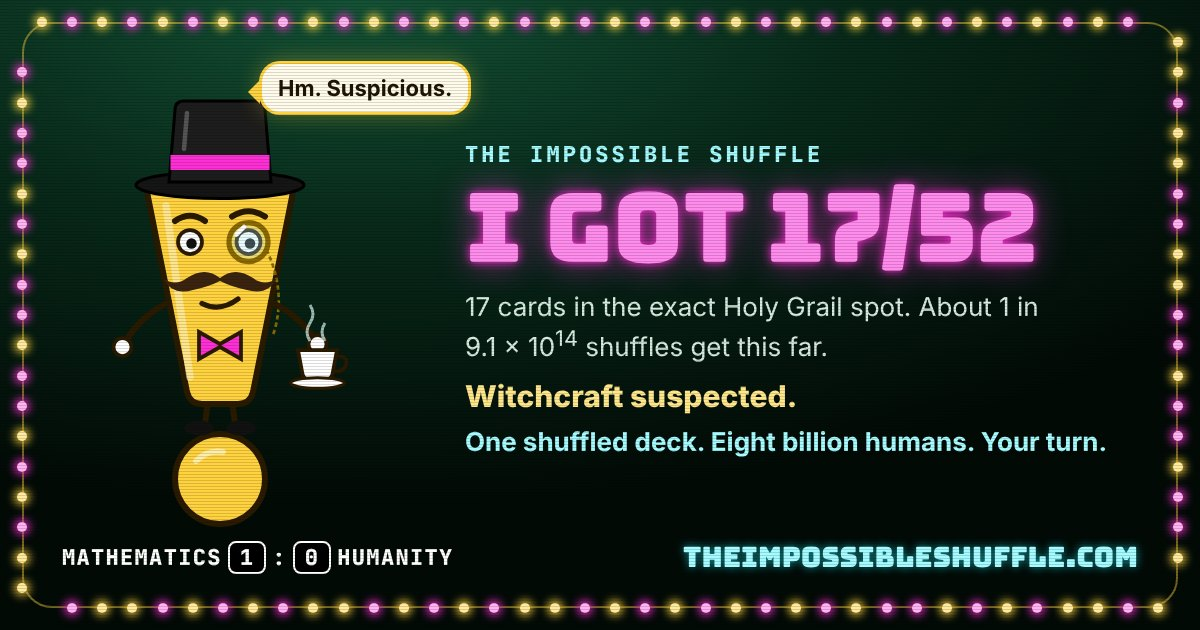
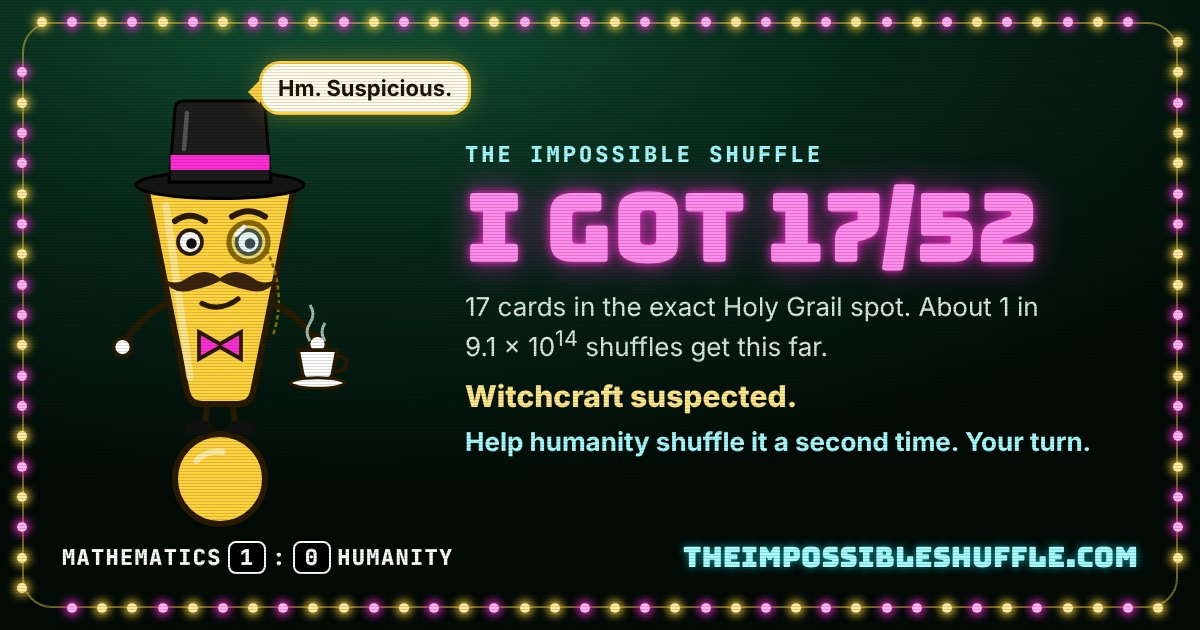
Hero line: 'A deck was shuffled once. Together, humanity is trying to shuffle that exact same order a second time. Your shuffle could be the one.' (also in meta, previews, manifest, share image and brag pages)
Claude-Session: https://claude.ai/code/session_01YJQDRu3Y672xQjHvmeDDE6

Changed region(s): [[0.37, 0.6635, 0.925, 0.7238]]

diff --git a/index.html b/index.html
@@ -4,13 +4,13 @@
 <meta charset="utf-8">
 <meta name="viewport" content="width=device-width, initial-scale=1, viewport-fit=cover">
 <title>The Impossible Shuffle</title>
-<meta name="description" content="The most impossible mission on the internet. One shuffled deck, eight billion humans, one goal: shuffle it again, card for card. Odds: 1 in 52!.">
+<meta name="description" content="The most impossible mission on the internet: a deck was shuffled once, and together humanity is trying to shuffle that exact same order a second time. Odds: 1 in 52!. Your shuffle could be the one.">
 <link rel="canonical" href="https://theimpossibleshuffle.com/">
 <meta name="theme-color" content="#03110a">
 <meta property="og:type" content="website">
 <meta property="og:url" content="https://theimpossibleshuffle.com/">
 <meta property="og:title" content="The Impossible Shuffle">
-<meta property="og:description" content="One shuffled deck. Eight billion humans. One goal: shuffle it again, card for card. The odds are 1 in 52!, about 8 × 10⁶⁷. Mathematics says no. We say: hold my cards.">
+<meta property="og:description" content="A deck was shuffled once. Together, humanity is trying to shuffle that exact same order a second time. The odds are 1 in 52!, about 8 × 10⁶⁷. Mathematics says no. We say: hold my cards.">
 <meta property="og:image" content="https://theimpossibleshuffle.com/og-image.png">
 <meta property="og:image:width" content="1200">
 <meta property="og:image:height" content="630">
@@ -18,7 +18,7 @@
 <meta name="twitter:card" content="summary_large_image">
 <meta name="twitter:image" content="https://theimpossibleshuffle.com/og-image.png">
 <meta name="twitter:title" content="The Impossible Shuffle">
-<meta name="twitter:description" content="One shuffled deck. Eight billion humans. One goal: shuffle it again, card for card. The odds are 1 in 52!. Mathematics says no. We say: hold my cards.">
+<meta name="twitter:description" content="A deck was shuffled once. Together, humanity is trying to shuffle that exact same order a second time. The odds are 1 in 52!. Mathematics says no. We say: hold my cards.">
 <link rel="icon" href="favicon.ico" sizes="16x16 32x32 48x48">
 <link rel="icon" type="image/png" sizes="32x32" href="favicon-32.png">
 <link rel="icon" type="image/png" sizes="16x16" href="favicon-16.png">
@@ -689,7 +689,7 @@
       <p id="phHello" class="ph-hello" hidden>👋 Welcome, Product Hunters. Your mission, should you choose to accept it: one shuffle. Mathematics expects nothing from you.</p>
       <p class="mono text-xs tracking-widest text-[#9fb5a8] mb-3">MISSION CONTROL · DEPARTMENT OF IMPOSSIBLE THINGS</p>
       <h1 class="font-display neon-pink text-[1.65rem] leading-tight sm:text-5xl lg:text-[3.4rem]">Welcome to Humankind's Most Impossible Mission</h1>
-      <p class="mt-5 max-w-4xl mx-auto text-base sm:text-lg text-[#cfe3d7]"><span class="block" style="text-wrap:balance">One shuffled deck. Eight billion humans. One goal: shuffle it again, card for card.</span> <span class="block mt-1" style="text-wrap:balance">Mathematics says no. We say: hold my cards.</span></p>
+      <p class="mt-5 max-w-4xl mx-auto text-base sm:text-lg text-[#cfe3d7]"><span class="block" style="text-wrap:balance">A deck was shuffled once. Together, humanity is trying to shuffle that exact same order a second time. Your shuffle could be the one.</span> <span class="block mt-1" style="text-wrap:balance">Mathematics says no. We say: hold my cards.</span></p>
       <button type="button" id="heroShuffle" class="shuffle-btn hero-cta mt-5"><span class="btn-main">Defy Mathematics</span><span class="btn-sub">Free · no sign-up</span></button>
       <p class="hero-trust">Odds: <b>1 in 8 × 10⁶⁷</b> per shuffle. Every shuffle is real and anyone can replay it, so even Mission Control can't fake a win.</p>
       <ol class="hero-steps" aria-label="The mission in three steps">

diff --git a/b/1/index.html b/b/1/index.html
@@ -2,20 +2,20 @@
 <html lang="en"><head><meta charset="utf-8">
 <meta name="viewport" content="width=device-width, initial-scale=1">
 <title>I got 1/52 on The Impossible Shuffle</title>
-<meta name="description" content="1 of 52 cards in their Holy Grail spot. Perfectly, aggressively average. One shuffled deck. Eight billion humans. One goal: shuffle it again, card for card. Your turn.">
+<meta name="description" content="1 of 52 cards in their Holy Grail spot. Perfectly, aggressively average. A deck was shuffled once. Humanity is trying to shuffle that exact same order a second time. Your turn.">
 <meta name="robots" content="noindex">
 <meta property="og:type" content="website">
 <meta property="og:site_name" content="The Impossible Shuffle">
 <meta property="og:url" content="https://theimpossibleshuffle.com/b/1/">
 <meta property="og:title" content="I got 1/52 on The Impossible Shuffle">
-<meta property="og:description" content="1 of 52 cards in their Holy Grail spot. Perfectly, aggressively average. One shuffled deck. Eight billion humans. One goal: shuffle it again, card for card. Your turn.">
+<meta property="og:description" content="1 of 52 cards in their Holy Grail spot. Perfectly, aggressively average. A deck was shuffled once. Humanity is trying to shuffle that exact same order a second time. Your turn.">
 <meta property="og:image" content="https://theimpossibleshuffle.com/b/1.jpg">
 <meta property="og:image:width" content="1200">
 <meta property="og:image:height" content="630">
 <meta property="og:image:alt" content="I got 1/52 on The Impossible Shuffle: Perfectly, aggressively average.">
 <meta name="twitter:card" content="summary_large_image">
 <meta name="twitter:title" content="I got 1/52 on The Impossible Shuffle">
-<meta name="twitter:description" content="1 of 52 cards in their Holy Grail spot. Perfectly, aggressively average. One shuffled deck. Eight billion humans. One goal: shuffle it again, card for card. Your turn.">
+<meta name="twitter:description" content="1 of 52 cards in their Holy Grail spot. Perfectly, aggressively average. A deck was shuffled once. Humanity is trying to shuffle that exact same order a second time. Your turn.">
 <meta name="twitter:image" content="https://theimpossibleshuffle.com/b/1.jpg">
 <script>var r = /[?&]r=([a-z0-9]{8,16})/.exec(location.search); location.replace('/?ref=brag' + (r ? '&r=' + r[1] : '') + location.hash);</script>
 </head><body style="background:#03110a;color:#d7eadf;font-family:system-ui;text-align:center;padding:3rem">

diff --git a/b/2/index.html b/b/2/index.html
@@ -2,20 +2,20 @@
 <html lang="en"><head><meta charset="utf-8">
 <meta name="viewport" content="width=device-width, initial-scale=1">
 <title>I got 2/52 on The Impossible Shuffle</title>
-<meta name="description" content="2 of 52 cards in their Holy Grail spot. Mild statistical flirtation. One shuffled deck. Eight billion humans. One goal: shuffle it again, card for card. Your turn.">
+<meta name="description" content="2 of 52 cards in their Holy Grail spot. Mild statistical flirtation. A deck was shuffled once. Humanity is trying to shuffle that exact same order a second time. Your turn.">
 <meta name="robots" content="noindex">
 <meta property="og:type" content="website">
 <meta property="og:site_name" content="The Impossible Shuffle">
 <meta property="og:url" content="https://theimpossibleshuffle.com/b/2/">
 <meta property="og:title" content="I got 2/52 on The Impossible Shuffle">
-<meta property="og:description" content="2 of 52 cards in their Holy Grail spot. Mild statistical flirtation. One shuffled deck. Eight billion humans. One goal: shuffle it again, card for card. Your turn.">
+<meta property="og:description" content="2 of 52 cards in their Holy Grail spot. Mild statistical flirtation. A deck was shuffled once. Humanity is trying to shuffle that exact same order a second time. Your turn.">
 <meta property="og:image" content="https://theimpossibleshuffle.com/b/2.jpg">
 <meta property="og:image:width" content="1200">
 <meta property="og:image:height" content="630">
 <meta property="og:image:alt" content="I got 2/52 on The Impossible Shuffle: Mild statistical flirtation.">
 <meta name="twitter:card" content="summary_large_image">
 <meta name="twitter:title" content="I got 2/52 on The Impossible Shuffle">
-<meta name="twitter:description" content="2 of 52 cards in their Holy Grail spot. Mild statistical flirtation. One shuffled deck. Eight billion humans. One goal: shuffle it again, card for card. Your turn.">
+<meta name="twitter:description" content="2 of 52 cards in their Holy Grail spot. Mild statistical flirtation. A deck was shuffled once. Humanity is trying to shuffle that exact same order a second time. Your turn.">
 <meta name="twitter:image" content="https://theimpossibleshuffle.com/b/2.jpg">
 <script>var r = /[?&]r=([a-z0-9]{8,16})/.exec(location.search); location.replace('/?ref=brag' + (r ? '&r=' + r[1] : '') + location.hash);</script>
 </head><body style="background:#03110a;color:#d7eadf;font-family:system-ui;text-align:center;padding:3rem">

diff --git a/b/3/index.html b/b/3/index.html
@@ -2,20 +2,20 @@
 <html lang="en"><head><meta charset="utf-8">
 <meta name="viewport" content="width=device-width, initial-scale=1">
 <title>I got 3/52 on The Impossible Shuffle</title>
-<meta name="description" content="3 of 52 cards in their Holy Grail spot. Mild statistical flirtation. One shuffled deck. Eight billion humans. One goal: shuffle it again, card for card. Your turn.">
+<meta name="description" content="3 of 52 cards in their Holy Grail spot. Mild statistical flirtation. A deck was shuffled once. Humanity is trying to shuffle that exact same order a second time. Your turn.">
 <meta name="robots" content="noindex">
 <meta property="og:type" content="website">
 <meta property="og:site_name" content="The Impossible Shuffle">
 <meta property="og:url" content="https://theimpossibleshuffle.com/b/3/">
 <meta property="og:title" content="I got 3/52 on The Impossible Shuffle">
-<meta property="og:description" content="3 of 52 cards in their Holy Grail spot. Mild statistical flirtation. One shuffled deck. Eight billion humans. One goal: shuffle it again, card for card. Your turn.">
+<meta property="og:description" content="3 of 52 cards in their Holy Grail spot. Mild statistical flirtation. A deck was shuffled once. Humanity is trying to shuffle that exact same order a second time. Your turn.">
 <meta property="og:image" content="https://theimpossibleshuffle.com/b/3.jpg">
 <meta property="og:image:width" content="1200">
 <meta property="og:image:height" content="630">
 <meta property="og:image:alt" content="I got 3/52 on The Impossible Shuffle: Mild statistical flirtation.">
 <meta name="twitter:card" content="summary_large_image">
 <meta name="twitter:title" content="I got 3/52 on The Impossible Shuffle">
-<meta name="twitter:description" content="3 of 52 cards in their Holy Grail spot. Mild statistical flirtation. One shuffled deck. Eight billion humans. One goal: shuffle it again, card for card. Your turn.">
+<meta name="twitter:description" content="3 of 52 cards in their Holy Grail spot. Mild statistical flirtation. A deck was shuffled once. Humanity is trying to shuffle that exact same order a second time. Your turn.">
 <meta name="twitter:image" content="https://theimpossibleshuffle.com/b/3.jpg">
 <script>var r = /[?&]r=([a-z0-9]{8,16})/.exec(location.search); location.replace('/?ref=brag' + (r ? '&r=' + r[1] : '') + location.hash);</script>
 </head><body style="background:#03110a;color:#d7eadf;font-family:system-ui;text-align:center;padding:3rem">

diff --git a/b/6/index.html b/b/6/index.html
@@ -2,20 +2,20 @@
 <html lang="en"><head><meta charset="utf-8">
 <meta name="viewport" content="width=device-width, initial-scale=1">
 <title>I got 6/52 on The Impossible Shuffle</title>
-<meta name="description" content="6 of 52 cards in their Holy Grail spot. Statisticians are nervous. One shuffled deck. Eight billion humans. One goal: shuffle it again, card for card. Your turn.">
+<meta name="description" content="6 of 52 cards in their Holy Grail spot. Statisticians are nervous. A deck was shuffled once. Humanity is trying to shuffle that exact same order a second time. Your turn.">
 <meta name="robots" content="noindex">
 <meta property="og:type" content="website">
 <meta property="og:site_name" content="The Impossible Shuffle">
 <meta property="og:url" content="https://theimpossibleshuffle.com/b/6/">
 <meta property="og:title" content="I got 6/52 on The Impossible Shuffle">
-<meta property="og:description" content="6 of 52 cards in their Holy Grail spot. Statisticians are nervous. One shuffled deck. Eight billion humans. One goal: shuffle it again, card for card. Your turn.">
+<meta property="og:description" content="6 of 52 cards in their Holy Grail spot. Statisticians are nervous. A deck was shuffled once. Humanity is trying to shuffle that exact same order a second time. Your turn.">
 <meta property="og:image" content="https://theimpossibleshuffle.com/b/6.jpg">
 <meta property="og:image:width" content="1200">
 <meta property="og:image:height" content="630">
 <meta property="og:image:alt" content="I got 6/52 on The Impossible Shuffle: Statisticians are nervous.">
 <meta name="twitter:card" content="summary_large_image">
 <meta name="twitter:title" content="I got 6/52 on The Impossible Shuffle">
-<meta name="twitter:description" content="6 of 52 cards in their Holy Grail spot. Statisticians are nervous. One shuffled deck. Eight billion humans. One goal: shuffle it again, card for card. Your turn.">
+<meta name="twitter:description" content="6 of 52 cards in their Holy Grail spot. Statisticians are nervous. A deck was shuffled once. Humanity is trying to shuffle that exact same order a second time. Your turn.">
 <meta name="twitter:image" content="https://theimpossibleshuffle.com/b/6.jpg">
 <script>var r = /[?&]r=([a-z0-9]{8,16})/.exec(location.search); location.replace('/?ref=brag' + (r ? '&r=' + r[1] : '') + location.hash);</script>
 </head><body style="background:#03110a;color:#d7eadf;font-family:system-ui;text-align:center;padding:3rem">

diff --git a/b/7/index.html b/b/7/index.html
@@ -2,20 +2,20 @@
 <html lang="en"><head><meta charset="utf-8">
 <meta name="viewport" content="width=device-width, initial-scale=1">
 <title>I got 7/52 on The Impossible Shuffle</title>
-<meta name="description" content="7 of 52 cards in their Holy Grail spot. Statisticians are nervous. One shuffled deck. Eight billion humans. One goal: shuffle it again, card for card. Your turn.">
+<meta name="description" content="7 of 52 cards in their Holy Grail spot. Statisticians are nervous. A deck was shuffled once. Humanity is trying to shuffle that exact same order a second time. Your turn.">
 <meta name="robots" content="noindex">
 <meta property="og:type" content="website">
 <meta property="og:site_name" content="The Impossible Shuffle">
 <meta property="og:url" content="https://theimpossibleshuffle.com/b/7/">
 <meta property="og:title" content="I got 7/52 on The Impossible Shuffle">
-<meta property="og:description" content="7 of 52 cards in their Holy Grail spot. Statisticians are nervous. One shuffled deck. Eight billion humans. One goal: shuffle it again, card for card. Your turn.">
+<meta property="og:description" content="7 of 52 cards in their Holy Grail spot. Statisticians are nervous. A deck was shuffled once. Humanity is trying to shuffle that exact same order a second time. Your turn.">
 <meta property="og:image" content="https://theimpossibleshuffle.com/b/7.jpg">
 <meta property="og:image:width" content="1200">
 <meta property="og:image:height" content="630">
 <meta property="og:image:alt" content="I got 7/52 on The Impossible Shuffle: Statisticians are nervous.">
 <meta name="twitter:card" content="summary_large_image">
 <meta name="twitter:title" content="I got 7/52 on The Impossible Shuffle">
-<meta name="twitter:description" content="7 of 52 cards in their Holy Grail spot. Statisticians are nervous. One shuffled deck. Eight billion humans. One goal: shuffle it again, card for card. Your turn.">
+<meta name="twitter:description" content="7 of 52 cards in their Holy Grail spot. Statisticians are nervous. A deck was shuffled once. Humanity is trying to shuffle that exact same order a second time. Your turn.">
 <meta name="twitter:image" content="https://theimpossibleshuffle.com/b/7.jpg">
 <script>var r = /[?&]r=([a-z0-9]{8,16})/.exec(location.search); location.replace('/?ref=brag' + (r ? '&r=' + r[1] : '') + location.hash);</script>
 </head><body style="background:#03110a;color:#d7eadf;font-family:system-ui;text-align:center;padding:3rem">

diff --git a/b/8/index.html b/b/8/index.html
@@ -2,20 +2,20 @@
 <html lang="en"><head><meta charset="utf-8">
 <meta name="viewport" content="width=device-width, initial-scale=1">
 <title>I got 8/52 on The Impossible Shuffle</title>
-<meta name="description" content="8 of 52 cards in their Holy Grail spot. Statisticians are nervous. One shuffled deck. Eight billion humans. One goal: shuffle it again, card for card. Your turn.">
+<meta name="description" content="8 of 52 cards in their Holy Grail spot. Statisticians are nervous. A deck was shuffled once. Humanity is trying to shuffle that exact same order a second time. Your turn.">
 <meta name="robots" content="noindex">
 <meta property="og:type" content="website">
 <meta property="og:site_name" content="The Impossible Shuffle">
 <meta property="og:url" content="https://theimpossibleshuffle.com/b/8/">
 <meta property="og:title" content="I got 8/52 on The Impossible Shuffle">
-<meta property="og:description" content="8 of 52 cards in their Holy Grail spot. Statisticians are nervous. One shuffled deck. Eight billion humans. One goal: shuffle it again, card for card. Your turn.">
+<meta property="og:description" content="8 of 52 cards in their Holy Grail spot. Statisticians are nervous. A deck was shuffled once. Humanity is trying to shuffle that exact same order a second time. Your turn.">
 <meta property="og:image" content="https://theimpossibleshuffle.com/b/8.jpg">
 <meta property="og:image:width" content="1200">
 <meta property="og:image:height" content="630">
 <meta property="og:image:alt" content="I got 8/52 on The Impossible Shuffle: Statisticians are nervous.">
 <meta name="twitter:card" content="summary_large_image">
 <meta name="twitter:title" content="I got 8/52 on The Impossible Shuffle">
-<meta name="twitter:description" content="8 of 52 cards in their Holy Grail spot. Statisticians are nervous. One shuffled deck. Eight billion humans. One goal: shuffle it again, card for card. Your turn.">
+<meta name="twitter:description" content="8 of 52 cards in their Holy Grail spot. Statisticians are nervous. A deck was shuffled once. Humanity is trying to shuffle that exact same order a second time. Your turn.">
 <meta name="twitter:image" content="https://theimpossibleshuffle.com/b/8.jpg">
 <script>var r = /[?&]r=([a-z0-9]{8,16})/.exec(location.search); location.replace('/?ref=brag' + (r ? '&r=' + r[1] : '') + location.hash);</script>
 </head><body style="background:#03110a;color:#d7eadf;font-family:system-ui;text-align:center;padding:3rem">

diff --git a/b/9/index.html b/b/9/index.html
@@ -2,20 +2,20 @@
 <html lang="en"><head><meta charset="utf-8">
 <meta name="viewport" content="width=device-width, initial-scale=1">
 <title>I got 9/52 on The Impossible Shuffle</title>
-<meta name="description" content="9 of 52 cards in their Holy Grail spot. Statisticians are nervous. One shuffled deck. Eight billion humans. One goal: shuffle it again, card for card. Your turn.">
+<meta name="description" content="9 of 52 cards in their Holy Grail spot. Statisticians are nervous. A deck was shuffled once. Humanity is trying to shuffle that exact same order a second time. Your turn.">
 <meta name="robots" content="noindex">
 <meta property="og:type" content="website">
 <meta property="og:site_name" content="The Impossible Shuffle">
 <meta property="og:url" content="https://theimpossibleshuffle.com/b/9/">
 <meta property="og:title" content="I got 9/52 on The Impossible Shuffle">
-<meta property="og:description" content="9 of 52 cards in their Holy Grail spot. Statisticians are nervous. One shuffled deck. Eight billion humans. One goal: shuffle it again, card for card. Your turn.">
+<meta property="og:description" content="9 of 52 cards in their Holy Grail spot. Statisticians are nervous. A deck was shuffled once. Humanity is trying to shuffle that exact same order a second time. Your turn.">
 <meta property="og:image" content="https://theimpossibleshuffle.com/b/9.jpg">
 <meta property="og:image:width" content="1200">
 <meta property="og:image:height" content="630">
 <meta property="og:image:alt" content="I got 9/52 on The Impossible Shuffle: Statisticians are nervous.">
 <meta name="twitter:card" content="summary_large_image">
 <meta name="twitter:title" content="I got 9/52 on The Impossible Shuffle">
-<meta name="twitter:description" content="9 of 52 cards in their Holy Grail spot. Statisticians are nervous. One shuffled deck. Eight billion humans. One goal: shuffle it again, card for card. Your turn.">
+<meta name="twitter:description" content="9 of 52 cards in their Holy Grail spot. Statisticians are nervous. A deck was shuffled once. Humanity is trying to shuffle that exact same order a second time. Your turn.">
 <meta name="twitter:image" content="https://theimpossibleshuffle.com/b/9.jpg">
 <script>var r = /[?&]r=([a-z0-9]{8,16})/.exec(location.search); location.replace('/?ref=brag' + (r ? '&r=' + r[1] : '') + location.hash);</script>
 </head><body style="background:#03110a;color:#d7eadf;font-family:system-ui;text-align:center;padding:3rem">

diff --git a/b/52/index.html b/b/52/index.html
@@ -2,20 +2,20 @@
 <html lang="en"><head><meta charset="utf-8">
 <meta name="viewport" content="width=device-width, initial-scale=1">
 <title>I got 52/52 on The Impossible Shuffle</title>
-<meta name="description" content="52 of 52 cards in their Holy Grail spot. Humanity wins. Forever. One shuffled deck. Eight billion humans. One goal: shuffle it again, card for card. Your turn.">
+<meta name="description" content="52 of 52 cards in their Holy Grail spot. Humanity wins. Forever. A deck was shuffled once. Humanity is trying to shuffle that exact same order a second time. Your turn.">
 <meta name="robots" content="noindex">
 <meta property="og:type" content="website">
 <meta property="og:site_name" content="The Impossible Shuffle">
 <meta property="og:url" content="https://theimpossibleshuffle.com/b/52/">
 <meta property="og:title" content="I got 52/52 on The Impossible Shuffle">
-<meta property="og:description" content="52 of 52 cards in their Holy Grail spot. Humanity wins. Forever. One shuffled deck. Eight billion humans. One goal: shuffle it again, card for card. Your turn.">
+<meta property="og:description" content="52 of 52 cards in their Holy Grail spot. Humanity wins. Forever. A deck was shuffled once. Humanity is trying to shuffle that exact same order a second time. Your turn.">
 <meta property="og:image" content="https://theimpossibleshuffle.com/b/52.jpg">
 <meta property="og:image:width" content="1200">
 <meta property="og:image:height" content="630">
 <meta property="og:image:alt" content="I got 52/52 on The Impossible Shuffle: Humanity wins. Forever.">
 <meta name="twitter:card" content="summary_large_image">
 <meta name="twitter:title" content="I got 52/52 on The Impossible Shuffle">
-<meta name="twitter:description" content="52 of 52 cards in their Holy Grail spot. Humanity wins. Forever. One shuffled deck. Eight billion humans. One goal: shuffle it again, card for card. Your turn.">
+<meta name="twitter:description" content="52 of 52 cards in their Holy Grail spot. Humanity wins. Forever. A deck was shuffled once. Humanity is trying to shuffle that exact same order a second time. Your turn.">
 <meta name="twitter:image" content="https://theimpossibleshuffle.com/b/52.jpg">
 <script>var r = /[?&]r=([a-z0-9]{8,16})/.exec(location.search); location.replace('/?ref=brag' + (r ? '&r=' + r[1] : '') + location.hash);</script>
 </head><body style="background:#03110a;color:#d7eadf;font-family:system-ui;text-align:center;padding:3rem">

diff --git a/b/10/index.html b/b/10/index.html
@@ -2,20 +2,20 @@
 <html lang="en"><head><meta charset="utf-8">
 <meta name="viewport" content="width=device-width, initial-scale=1">
 <title>I got 10/52 on The Impossible Shuffle</title>
-<meta name="description" content="10 of 52 cards in their Holy Grail spot. Witchcraft suspected. One shuffled deck. Eight billion humans. One goal: shuffle it again, card for card. Your turn.">
+<meta name="description" content="10 of 52 cards in their Holy Grail spot. Witchcraft suspected. A deck was shuffled once. Humanity is trying to shuffle that exact same order a second time. Your turn.">
 <meta name="robots" content="noindex">
 <meta property="og:type" content="website">
 <meta property="og:site_name" content="The Impossible Shuffle">
 <meta property="og:url" content="https://theimpossibleshuffle.com/b/10/">
 <meta property="og:title" content="I got 10/52 on The Impossible Shuffle">
-<meta property="og:description" content="10 of 52 cards in their Holy Grail spot. Witchcraft suspected. One shuffled deck. Eight billion humans. One goal: shuffle it again, card for card. Your turn.">
+<meta property="og:description" content="10 of 52 cards in their Holy Grail spot. Witchcraft suspected. A deck was shuffled once. Humanity is trying to shuffle that exact same order a second time. Your turn.">
 <meta property="og:image" content="https://theimpossibleshuffle.com/b/10.jpg">
 <meta property="og:image:width" content="1200">
 <meta property="og:image:height" content="630">
 <meta property="og:image:alt" content="I got 10/52 on The Impossible Shuffle: Witchcraft suspected.">
 <meta name="twitter:card" content="summary_large_image">
 <meta name="twitter:title" content="I got 10/52 on The Impossible Shuffle">
-<meta name="twitter:description" content="10 of 52 cards in their Holy Grail spot. Witchcraft suspected. One shuffled deck. Eight billion humans. One goal: shuffle it again, card for card. Your turn.">
+<meta name="twitter:description" content="10 of 52 cards in their Holy Grail spot. Witchcraft suspected. A deck was shuffled once. Humanity is trying to shuffle that exact same order a second time. Your turn.">
 <meta name="twitter:image" content="https://theimpossibleshuffle.com/b/10.jpg">
 <script>var r = /[?&]r=([a-z0-9]{8,16})/.exec(location.search); location.replace('/?ref=brag' + (r ? '&r=' + r[1] : '') + location.hash);</script>
 </head><body style="background:#03110a;color:#d7eadf;font-family:system-ui;text-align:center;padding:3rem">

diff --git a/b/11/index.html b/b/11/index.html
@@ -2,20 +2,20 @@
 <html lang="en"><head><meta charset="utf-8">
 <meta name="viewport" content="width=device-width, initial-scale=1">
 <title>I got 11/52 on The Impossible Shuffle</title>
-<meta name="description" content="11 of 52 cards in their Holy Grail spot. Witchcraft suspected. One shuffled deck. Eight billion humans. One goal: shuffle it again, card for card. Your turn.">
+<meta name="description" content="11 of 52 cards in their Holy Grail spot. Witchcraft suspected. A deck was shuffled once. Humanity is trying to shuffle that exact same order a second time. Your turn.">
 <meta name="robots" content="noindex">
 <meta property="og:type" content="website">
 <meta property="og:site_name" content="The Impossible Shuffle">
 <meta property="og:url" content="https://theimpossibleshuffle.com/b/11/">
 <meta property="og:title" content="I got 11/52 on The Impossible Shuffle">
-<meta property="og:description" content="11 of 52 cards in their Holy Grail spot. Witchcraft suspected. One shuffled deck. Eight billion humans. One goal: shuffle it again, card for card. Your turn.">
+<meta property="og:description" content="11 of 52 cards in their Holy Grail spot. Witchcraft suspected. A deck was shuffled once. Humanity is trying to shuffle that exact same order a second time. Your turn.">
 <meta property="og:image" content="https://theimpossibleshuffle.com/b/11.jpg">
 <meta property="og:image:width" content="1200">
 <meta property="og:image:height" content="630">
 <meta property="og:image:alt" content="I got 11/52 on The Impossible Shuffle: Witchcraft suspected.">
 <meta name="twitter:card" content="summary_large_image">
 <meta name="twitter:title" content="I got 11/52 on The Impossible Shuffle">
-<meta name="twitter:description" content="11 of 52 cards in their Holy Grail spot. Witchcraft suspected. One shuffled deck. Eight billion humans. One goal: shuffle it again, card for card. Your turn.">
+<meta name="twitter:description" content="11 of 52 cards in their Holy Grail spot. Witchcraft suspected. A deck was shuffled once. Humanity is trying to shuffle that exact same order a second time. Your turn.">
 <meta name="twitter:image" content="https://theimpossibleshuffle.com/b/11.jpg">
 <script>var r = /[?&]r=([a-z0-9]{8,16})/.exec(location.search); location.replace('/?ref=brag' + (r ? '&r=' + r[1] : '') + location.hash);</script>
 </head><body style="background:#03110a;color:#d7eadf;font-family:system-ui;text-align:center;padding:3rem">

diff --git a/b/12/index.html b/b/12/index.html
@@ -2,20 +2,20 @@
 <html lang="en"><head><meta charset="utf-8">
 <meta name="viewport" content="width=device-width, initial-scale=1">
 <title>I got 12/52 on The Impossible Shuffle</title>
-<meta name="description" content="12 of 52 cards in their Holy Grail spot. Witchcraft suspected. One shuffled deck. Eight billion humans. One goal: shuffle it again, card for card. Your turn.">
+<meta name="description" content="12 of 52 cards in their Holy Grail spot. Witchcraft suspected. A deck was shuffled once. Humanity is trying to shuffle that exact same order a second time. Your turn.">
 <meta name="robots" content="noindex">
 <meta property="og:type" content="website">
 <meta property="og:site_name" content="The Impossible Shuffle">
 <meta property="og:url" content="https://theimpossibleshuffle.com/b/12/">
 <meta property="og:title" content="I got 12/52 on The Impossible Shuffle">
-<meta property="og:description" content="12 of 52 cards in their Holy Grail spot. Witchcraft suspected. One shuffled deck. Eight billion humans. One goal: shuffle it again, card for card. Your turn.">
+<meta property="og:description" content="12 of 52 cards in their Holy Grail spot. Witchcraft suspected. A deck was shuffled once. Humanity is trying to shuffle that exact same order a second time. Your turn.">
 <meta property="og:image" content="https://theimpossibleshuffle.com/b/12.jpg">
 <meta property="og:image:width" content="1200">
 <meta property="og:image:height" content="630">
 <meta property="og:image:alt" content="I got 12/52 on The Impossible Shuffle: Witchcraft suspected.">
 <meta name="twitter:card" content="summary_large_image">
 <meta name="twitter:title" content="I got 12/52 on The Impossible Shuffle">
-<meta name="twitter:description" content="12 of 52 cards in their Holy Grail spot. Witchcraft suspected. One shuffled deck. Eight billion humans. One goal: shuffle it again, card for card. Your turn.">
+<meta name="twitter:description" content="12 of 52 cards in their Holy Grail spot. Witchcraft suspected. A deck was shuffled once. Humanity is trying to shuffle that exact same order a second time. Your turn.">
 <meta name="twitter:image" content="https://theimpossibleshuffle.com/b/12.jpg">
 <script>var r = /[?&]r=([a-z0-9]{8,16})/.exec(location.search); location.replace('/?ref=brag' + (r ? '&r=' + r[1] : '') + location.hash);</script>
 </head><body style="background:#03110a;color:#d7eadf;font-family:system-ui;text-align:center;padding:3rem">
